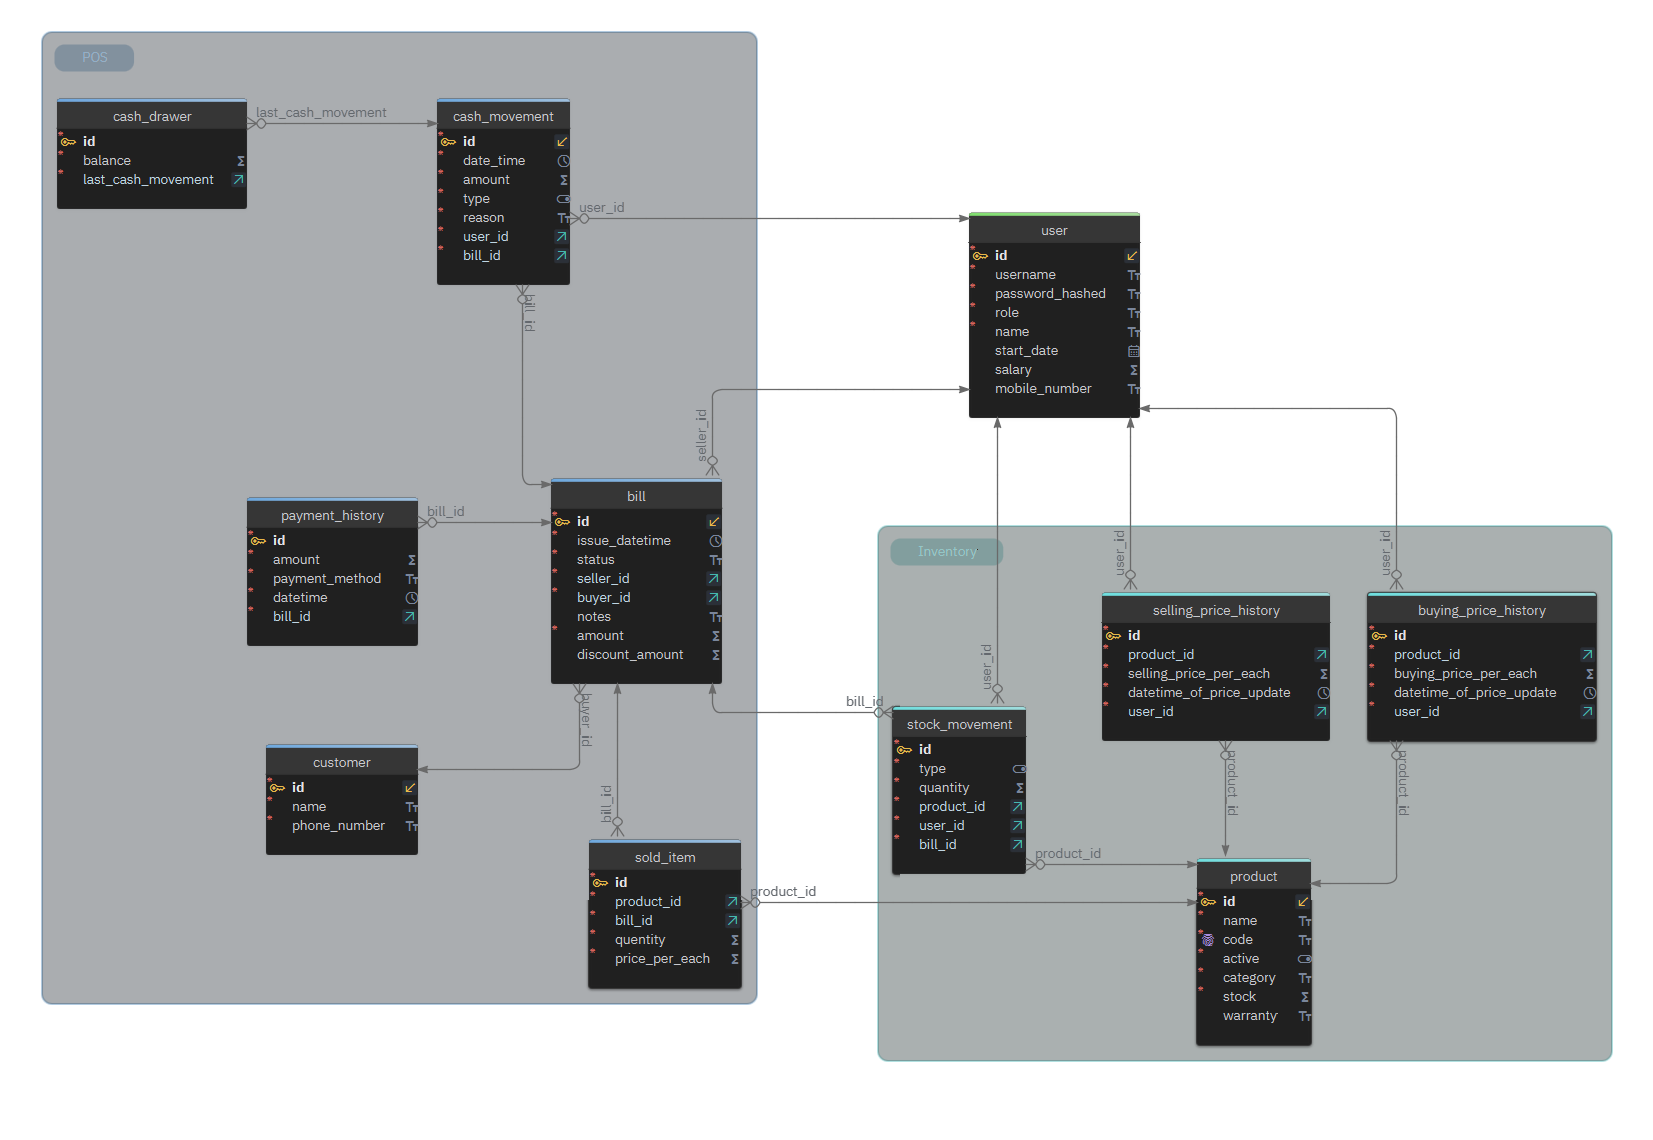
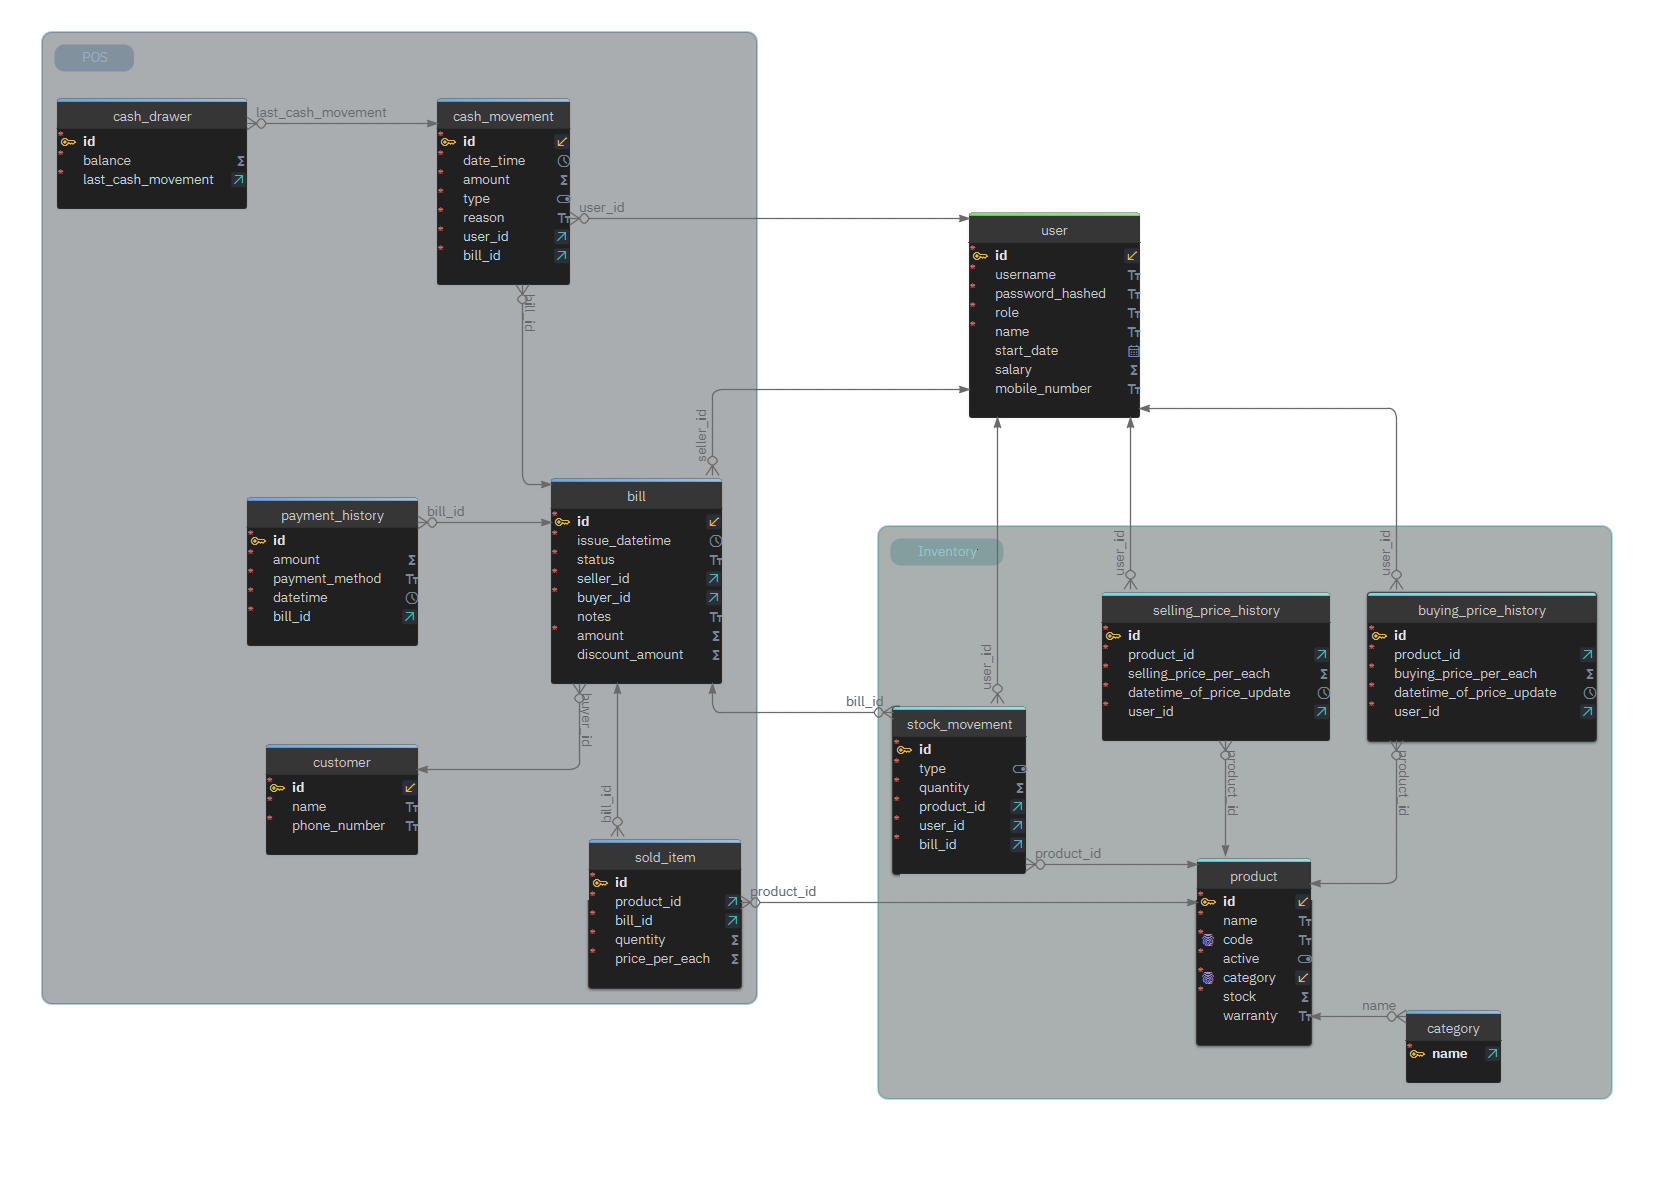
apply 3rd normal form

diff --git a/Docs/DB Schema.html b/Docs/DB Schema.html
@@ -242,7 +242,7 @@ table.sub td.d{color:var(--muted);}
 
 <header class='topbar'>
 <div class='brand'><svg viewBox='0 0 30 30' xmlns='http://www.w3.org/2000/svg'><path style='stroke:none;fill:#5d5d5d' d='M2.41,6.80 17.39,0.35 26.83,7.21 28.32,24.45 12.62,29.77 1.74,23.96'/><path style='stroke:none;fill:#efefef' d='M 2.21, 6.45  9.36, 3.49  9.42,11.63  2.04,14.42'/><path style='stroke:none;fill:#efefef' d='M10.23, 3.14 17.39, 0.17 17.68, 8.59 10.29,11.28'/><path style='stroke:none;fill:#d2d2d2' d='M17.44, 0.17 21.59, 3.55 22.36,11.43 17.76,8.63'/><path style='stroke:none;fill:#d2d2d2' d='M22.67, 4.33 26.98, 7.06 27.65,14.77 23.20,11.77'/><path style='stroke:none;fill:#efefef' d='M1.89,15.58  9.39,12.65  9.48,21.14  1.57,24.10'/><path style='stroke:none;fill:#17afde' d='M10.38,12.36 17.70, 9.51 18.11,18.37 10.32 20.96'/><path style='stroke:none;fill:#1389ad' d='M17.73, 9.59 22.41,12.47 22.82,21.14 18.05,18.34'/><path style='stroke:none;fill:#d2d2d2' d='M23.26,12.94 27.62,15.70 28.42,24.54 23.69,21.60'/><path style='stroke:none;fill:#828282' d='M1.57,24.19  9.45,21.22 14.30,24.40  6.80,26.80'/><path style='stroke:none;fill:#0c485c' d='M10.47,20.90 18.11,18.32 22.82,21.19 15.20,23.81'/><path style='stroke:none;fill:#828282' d='M23.69,21.63 28.32,24.65 20.87,27.07 15.84,24.30'/><path style='stroke:none;fill:#828282' d='M14.94,24.68 19.80,27.41 12.59,29.97  7.73,27.21'/></svg>
-<span class='names'><span class='t'>Sendal Business Management System</span><span class='s'>Logical Design · 11 entities · generated 6 Nov 2026</span></span></div>
+<span class='names'><span class='t'>Sendal Business Management System</span><span class='s'>Logical Design · 12 entities · generated 6 Nov 2026</span></span></div>
 <div class='searchbox'><svg class='ic ' width='16' height='16'><use href='#ic-search' width='16' height='16'/></svg><input type='text' oninput='search(this.value)' placeholder='Search tables, columns, comments&hellip;'/></div>
 <div class='spacer'></div>
 <a class='credit' href='https://dbschema.com'>Generated using DbSchema</a>
@@ -253,7 +253,7 @@ table.sub td.d{color:var(--muted);}
 <div class='diagram-head'><svg class='ic accent' width='16' height='16'><use href='#ic-layout' width='16' height='16'/></svg><h3>Default Diagram</h3><span class='hint'>drag to pan &middot; ctrl + wheel to zoom &middot; hover a column for its comment</span>
 </div>
 <div class='svgContainer'>
-<svg xmlns='http://www.w3.org/2000/svg' xmlns:xlink='http://www.w3.org/1999/xlink'   width='1653' height='1250' viewBox='0 0 1653 1250' >
+<svg xmlns='http://www.w3.org/2000/svg' xmlns:xlink='http://www.w3.org/1999/xlink'   width='1653' height='1288' viewBox='0 0 1653 1288' >
   <script type='text/ecmascript'>
   <![CDATA[
   function hghl(el) { for ( var i in el ){ var elem = document.getElementById(el[i]); if ( elem != null ) elem.setAttribute('class','highlight');  }  }
@@ -454,8 +454,8 @@ table.sub td.d{color:var(--muted);}
 
 <!-- == Shape Colors == -->
 <!-- == Desktop == -->
-<rect x='0' y='0' width='1653' height='1250' rx='10' ry='10' style='fill:url(#layoutBgA); stroke:none; stroke-width:.7px; cursor:move;' />
-<rect x='1' y='1' width='1651' height='1248' rx='10' ry='10' style='fill:url(#layoutBgEval);' />
+<rect x='0' y='0' width='1653' height='1288' rx='10' ry='10' style='fill:url(#layoutBgA); stroke:none; stroke-width:.7px; cursor:move;' />
+<rect x='1' y='1' width='1651' height='1286' rx='10' ry='10' style='fill:url(#layoutBgEval);' />
 
 <!-- == Legend == -->
 <g transform='translate(10,10)'>
@@ -469,7 +469,7 @@ Zoom with CTRL + mouse wheel, pan by dragging the diagram.</title></g>
 
 <g transform='translate(0,110)'>
 <!-- == Group 'Inventory' == -->
-<rect class='grp' style='fill:#DEF4F4;stroke:#AEE2E2' x='877' y='525' width='735' height='536' rx='8' ry='8' />
+<rect class='grp' style='fill:#DEF4F4;stroke:#AEE2E2' x='877' y='525' width='735' height='574' rx='8' ry='8' />
 <text class='grp' x='891' y='544' style='fill:#4A8F8F;'>Inventory</text>
 <!-- == Group 'POS' == -->
 <rect class='grp' style='fill:#DEE9F4;stroke:#AEC9E2' x='41' y='31' width='716' height='973' rx='8' ry='8' />
@@ -594,6 +594,14 @@ stock_movement &#10132; bill ( bill_id -&gt; id )
 stock_movement &#10132; bill ( bill_id -&gt; id )
 </title></path>
 <text x='846' y='697' transform='rotate(0 846,697)' class='relName'>bill&#95;id</text>
+<!-- == Fk 'l1-category_fk_category_product' == -->
+<path id='l1-category_fk_category_product'  onmouseover="hghl(['l1-category_fk_category_product','l1-Sendal Business Management System.category.name','l1-Sendal Business Management System.product.category'])" onmouseout="uhghl(['l1-category_fk_category_product','l1-Sendal Business Management System.category.name','l1-Sendal Business Management System.product.category'])" transform='translate(10,0)' class='unhighlight' d='M 1387,1007L 1311,1007' ><title>&#x1F517;  Foreign Key fk_category_product
+category &#10132; product ( name -&gt; category )
+</title></path>
+<path transform='translate(10,0)' marker-start='url(#ZeroMore)' marker-end='url(#Arrow)'    d='M 1387,1007L 1311,1007' ><title>&#x1F517;  Foreign Key fk_category_product
+category &#10132; product ( name -&gt; category )
+</title></path>
+<text x='1362' y='1001' transform='rotate(0 1362,1001)' class='relName'>name</text>
 <!-- == Table 'buying_price_history' == -->
 <rect id='l1&#45;depict&#95;Sendal Business Management System&#46;buying&#95;price&#95;history' class='entity' x='1368' y='580' width='228' height='152' rx='4' ry='4' />
 <rect x='1368' y='580' width='228' height='8' rx='4' ry='4' style='stroke-width:0;fill:url(#ttl_008080);'/>
@@ -837,13 +845,25 @@ Referred by stock_movement ( product_id -&gt; id ) </title><rect class='iconPlat
      * varchar(50)</title><text id='l1&#45;Sendal Business Management System&#46;product&#46;code' x='1220' y='940'>code</text></g></a>
 <use class='mk-type' x='1297' y='926' width='13' height='13' href='#ty-text_fields'/>  <use class='mk-nn' x='1197' y='948' width='7' height='7' href='#nn'/><a href='#Sendal+Business+Management+System.product.active'><g><title>&#10697;  active
      * boolean</title><text id='l1&#45;Sendal Business Management System&#46;product&#46;active' x='1220' y='959'>active</text></g></a>
-<use class='mk-type' x='1297' y='945' width='13' height='13' href='#ty-toggle_on'/>  <use class='mk-nn' x='1197' y='967' width='7' height='7' href='#nn'/><a href='#Sendal+Business+Management+System.product.category'><g><title>&#10697;  category
-     * varchar(100)</title><text id='l1&#45;Sendal Business Management System&#46;product&#46;category' x='1220' y='978'>category</text></g></a>
-<use class='mk-type' x='1297' y='964' width='13' height='13' href='#ty-text_fields'/>  <use class='mk-nn' x='1197' y='986' width='7' height='7' href='#nn'/><a href='#Sendal+Business+Management+System.product.stock'><g><title>&#10697;  stock
+<use class='mk-type' x='1297' y='945' width='13' height='13' href='#ty-toggle_on'/>  <use class='mk-nn' x='1197' y='967' width='7' height='7' href='#nn'/><g><title>&#x1F50D;  Unq unq_product_category ( category ) </title><use class='mk-unq' x='1199' y='964' width='13' height='13' href='#unq'/></g><a href='#Sendal+Business+Management+System.product.category'><g><title>&#10697;  category
+     * varchar(100)
+ &#8601; category( name )</title><text id='l1&#45;Sendal Business Management System&#46;product&#46;category' x='1220' y='978' onmouseover="hghl(['l1-category_fk_category_product','l1-Sendal Business Management System.category.name'])" onmouseout="uhghl(['l1-category_fk_category_product','l1-Sendal Business Management System.category.name'])">category</text></g></a>
+<a href='#Sendal+Business+Management+System.product.category'><g><title>&#x1F517;  Referred by category ( name -&gt; category ) </title><rect class='iconPlate' x='1296' y='963' width='15' height='15' rx='4' ry='4'/><use class='mk-ref' x='1297' y='964' width='13' height='13' href='#ref'/></g></a>
+  <use class='mk-nn' x='1197' y='986' width='7' height='7' href='#nn'/><a href='#Sendal+Business+Management+System.product.stock'><g><title>&#10697;  stock
      * int</title><text id='l1&#45;Sendal Business Management System&#46;product&#46;stock' x='1220' y='997'>stock</text></g></a>
 <use class='mk-type' x='1297' y='983' width='13' height='13' href='#ty-functions'/>  <a href='#Sendal+Business+Management+System.product.warranty'><g><title>&#10697;  warranty
      varchar</title><text id='l1&#45;Sendal Business Management System&#46;product&#46;warranty' x='1220' y='1016'>warranty</text></g></a>
 <use class='mk-type' x='1297' y='1002' width='13' height='13' href='#ty-text_fields'/>
+<!-- == Table 'category' == -->
+<rect id='l1&#45;depict&#95;Sendal Business Management System&#46;category' class='entity' x='1406' y='998' width='95' height='76' rx='4' ry='4' />
+<rect x='1406' y='998' width='95' height='8' rx='4' ry='4' style='stroke-width:0;fill:url(#ttl_C1D8EE);'/>
+<rect x='1406' y='1002' width='95' height='29' style='stroke-width:0;fill:url(#tbg_C1D8EE);'/>
+<a href='#Sendal+Business+Management+System.category'><g><title>Entity Sendal Business Management System.category</title><text id='l1&#45;depict&#45;Sendal Business Management System&#46;category' x='1422' y='1020' class='tableHeader'>category</text></g></a>
+  <use class='mk-nn' x='1406' y='1043' width='7' height='7' href='#nn'/><g><title>&#x1F511;  Pk pk_category ( name ) </title><use class='mk-pk' x='1408' y='1040' width='13' height='13' href='#pk'/></g><a href='#Sendal+Business+Management+System.category.name'><g><title>&#10697;  name
+     * varchar(250)
+ &#8599; product( category )</title><text id='l1&#45;Sendal Business Management System&#46;category&#46;name' x='1429' y='1054' onmouseover="hghl(['l1-category_fk_category_product','l1-Sendal Business Management System.product.category'])" onmouseout="uhghl(['l1-category_fk_category_product','l1-Sendal Business Management System.product.category'])" class='colPk'>name</text></g></a>
+<a href='#Sendal+Business+Management+System.category.name'><g><title>&#x1F517;  References product ( name -&gt; category ) </title><rect class='iconPlate' x='1486' y='1039' width='15' height='15' rx='4' ry='4'/><use class='mk-fk' x='1487' y='1040' width='13' height='13' href='#fk'/></g></a>
+
 </g></svg></div>
 <div class='legend'>
 <span class='item'><svg class='ic pk' width='15' height='15'><use href='#pk' width='15' height='15'/></svg> Primary key</span><span class='item'><svg class='ic unq' width='15' height='15'><use href='#unq' width='15' height='15'/></svg> Unique</span><span class='item'><svg class='ic idx' width='15' height='15'><use href='#idx' width='15' height='15'/></svg> Index</span><span class='item'><span class='plate'><svg class='ic fk' width='15' height='15'><use href='#fk' width='15' height='15'/></svg></span> Relation</span><span class='item'><span class='plate'><svg class='ic ref' width='15' height='15'><use href='#ref' width='15' height='15'/></svg></span> Referenced by</span><span class='item'><svg class='ic nn' width='12' height='12'><use href='#nn' width='12' height='12'/></svg> Mandatory</span></div>
@@ -1090,6 +1110,34 @@ Referred by stock_movement ( product_id -&gt; id ) </title><rect class='iconPlat
 <div class='pad-b'></div>
 </section>
 
+<section class='card entity' id='Sendal+Business+Management+System.category'>
+<div class='thead'><svg class='ic accent' width='20' height='20'><use href='#ic-table' width='20' height='20'/></svg><h3>category</h3><span class='badge'>Entity</span><span class='path'>Sendal Business Management System&#46;category</span><div class='actions'>
+<a class='chipbtn' href='#layout1' onclick="return showInDiagram('layout1','l1&#45;depict&#95;Sendal Business Management System&#46;category')"><svg class='ic ' width='16' height='16'><use href='#ic-layout' width='16' height='16'/></svg>Show in diagram</a></div>
+</div>
+<div class='facts'><span><b>1</b> attribute</span><span><b>1</b> primary key</span><span><b>1</b> index</span><span><b>1</b> relation</span></div>
+<div class='tablewrap'><table class='cols'>
+<thead><tr><th class='flags'></th><th class='cname'>Attribute</th><th class='type'>Data Type</th><th class='attrs'>Constraints</th></tr></thead>
+<tbody>
+	<tr>
+		<td class='flags'><svg class='ic nn' width='11' height='11'><title>Mandatory</title><use href='#nn' width='11' height='11'/></svg><svg class='ic pk' width='15' height='15'><title>Primary key</title><use href='#pk' width='15' height='15'/></svg><span class='plate'><svg class='ic fk' width='15' height='15'><title>Relation</title><use href='#fk' width='15' height='15'/></svg></span></td>
+		<td class='cname' id='Sendal+Business+Management+System.category.name'>name</td>
+		<td class='type'>VARCHAR&#40;250&#41;</td>
+		<td class='attrs'><span class='tag required'>NOT NULL</span></td>
+	</tr>
+</tbody></table></div>
+<div class='subsec'>
+<h4><svg class='ic idx' width='15' height='15'><use href='#idx' width='15' height='15'/></svg> Indexes</h4>
+<table class='sub'>
+<tr><td class='k'><svg class='ic pk' width='15' height='15'><use href='#pk' width='15' height='15'/></svg></td><td class='n'>pk&#95;category</td><td class='d'>Primary Key ON (name)</td></tr>
+</table>
+<h4><span class='plate'><svg class='ic fk' width='15' height='15'><use href='#fk' width='15' height='15'/></svg></span> Relation</h4>
+<table class='sub'>
+<tr><td class='k'><span class='plate'><svg class='ic fk' width='15' height='15'><use href='#fk' width='15' height='15'/></svg></span></td><td class='n'>fk&#95;category&#95;product</td><td class='d rel'>name <span class='arrow'>&#8594;</span> <a href='#Sendal+Business+Management+System.product'>product</a>.category</td></tr>
+</table>
+</div>
+<div class='pad-b'></div>
+</section>
+
 <section class='card entity' id='Sendal+Business+Management+System.customer'>
 <div class='thead'><svg class='ic accent' width='20' height='20'><use href='#ic-table' width='20' height='20'/></svg><h3>customer</h3><span class='badge'>Entity</span><span class='path'>Sendal Business Management System&#46;customer</span><div class='actions'>
 <a class='chipbtn' href='#layout1' onclick="return showInDiagram('layout1','l1&#45;depict&#95;Sendal Business Management System&#46;customer')"><svg class='ic ' width='16' height='16'><use href='#ic-layout' width='16' height='16'/></svg>Show in diagram</a></div>
@@ -1186,7 +1234,7 @@ Referred by stock_movement ( product_id -&gt; id ) </title><rect class='iconPlat
 <div class='thead'><svg class='ic accent' width='20' height='20'><use href='#ic-table' width='20' height='20'/></svg><h3>product</h3><span class='badge'>Entity</span><span class='path'>Sendal Business Management System&#46;product</span><div class='actions'>
 <a class='chipbtn' href='#layout1' onclick="return showInDiagram('layout1','l1&#45;depict&#95;Sendal Business Management System&#46;product')"><svg class='ic ' width='16' height='16'><use href='#ic-layout' width='16' height='16'/></svg>Show in diagram</a></div>
 </div>
-<div class='facts'><span><b>7</b> attributes</span><span><b>1</b> primary key</span><span><b>2</b> indexes</span><span>referenced by <b>4</b></span></div>
+<div class='facts'><span><b>7</b> attributes</span><span><b>1</b> primary key</span><span><b>3</b> indexes</span><span>referenced by <b>5</b></span></div>
 <div class='tablewrap'><table class='cols'>
 <thead><tr><th class='flags'></th><th class='cname'>Attribute</th><th class='type'>Data Type</th><th class='attrs'>Constraints</th></tr></thead>
 <tbody>
@@ -1215,7 +1263,7 @@ Referred by stock_movement ( product_id -&gt; id ) </title><rect class='iconPlat
 		<td class='attrs'><span class='tag required'>NOT NULL</span></td>
 	</tr>
 	<tr>
-		<td class='flags'><svg class='ic nn' width='11' height='11'><title>Mandatory</title><use href='#nn' width='11' height='11'/></svg></td>
+		<td class='flags'><svg class='ic nn' width='11' height='11'><title>Mandatory</title><use href='#nn' width='11' height='11'/></svg><svg class='ic unq' width='15' height='15'><title>Unique</title><use href='#unq' width='15' height='15'/></svg><span class='plate'><svg class='ic ref' width='15' height='15'><title>Referenced by another table</title><use href='#ref' width='15' height='15'/></svg></span></td>
 		<td class='cname' id='Sendal+Business+Management+System.product.category'>category</td>
 		<td class='type'>VARCHAR&#40;100&#41;</td>
 		<td class='attrs'><span class='tag required'>NOT NULL</span></td>
@@ -1238,6 +1286,7 @@ Referred by stock_movement ( product_id -&gt; id ) </title><rect class='iconPlat
 <table class='sub'>
 <tr><td class='k'><svg class='ic pk' width='15' height='15'><use href='#pk' width='15' height='15'/></svg></td><td class='n'>pk&#95;product</td><td class='d'>Primary Key ON (id)</td></tr>
 <tr><td class='k'><svg class='ic unq' width='15' height='15'><use href='#unq' width='15' height='15'/></svg></td><td class='n'>unq&#95;product</td><td class='d'>Unique Key ON (code)</td></tr>
+<tr><td class='k'><svg class='ic unq' width='15' height='15'><use href='#unq' width='15' height='15'/></svg></td><td class='n'>unq&#95;product&#95;category</td><td class='d'>Unique Key ON (category)</td></tr>
 </table>
 <h4><span class='plate'><svg class='ic ref' width='15' height='15'><use href='#ref' width='15' height='15'/></svg></span> Referenced by</h4>
 <table class='sub'>
@@ -1245,6 +1294,7 @@ Referred by stock_movement ( product_id -&gt; id ) </title><rect class='iconPlat
 <tr><td class='k'><span class='plate'><svg class='ic ref' width='15' height='15'><use href='#ref' width='15' height='15'/></svg></span></td><td class='n'>fk&#95;buying&#95;price&#95;history&#95;product&#95;0</td><td class='d rel'>id <span class='arrow'>&#8592;</span> <a href='#Sendal+Business+Management+System.selling_price_history'>selling&#95;price&#95;history</a>.product&#95;id</td></tr>
 <tr><td class='k'><span class='plate'><svg class='ic ref' width='15' height='15'><use href='#ref' width='15' height='15'/></svg></span></td><td class='n'>fk&#95;sold&#95;item&#95;product</td><td class='d rel'>id <span class='arrow'>&#8592;</span> <a href='#Sendal+Business+Management+System.sold_item'>sold&#95;item</a>.product&#95;id</td></tr>
 <tr><td class='k'><span class='plate'><svg class='ic ref' width='15' height='15'><use href='#ref' width='15' height='15'/></svg></span></td><td class='n'>fk&#95;stock&#95;movement&#95;product</td><td class='d rel'>id <span class='arrow'>&#8592;</span> <a href='#Sendal+Business+Management+System.stock_movement'>stock&#95;movement</a>.product&#95;id</td></tr>
+<tr><td class='k'><span class='plate'><svg class='ic ref' width='15' height='15'><use href='#ref' width='15' height='15'/></svg></span></td><td class='n'>fk&#95;category&#95;product</td><td class='d rel'>category <span class='arrow'>&#8592;</span> <a href='#Sendal+Business+Management+System.category'>category</a>.name</td></tr>
 </table>
 </div>
 <div class='pad-b'></div>
